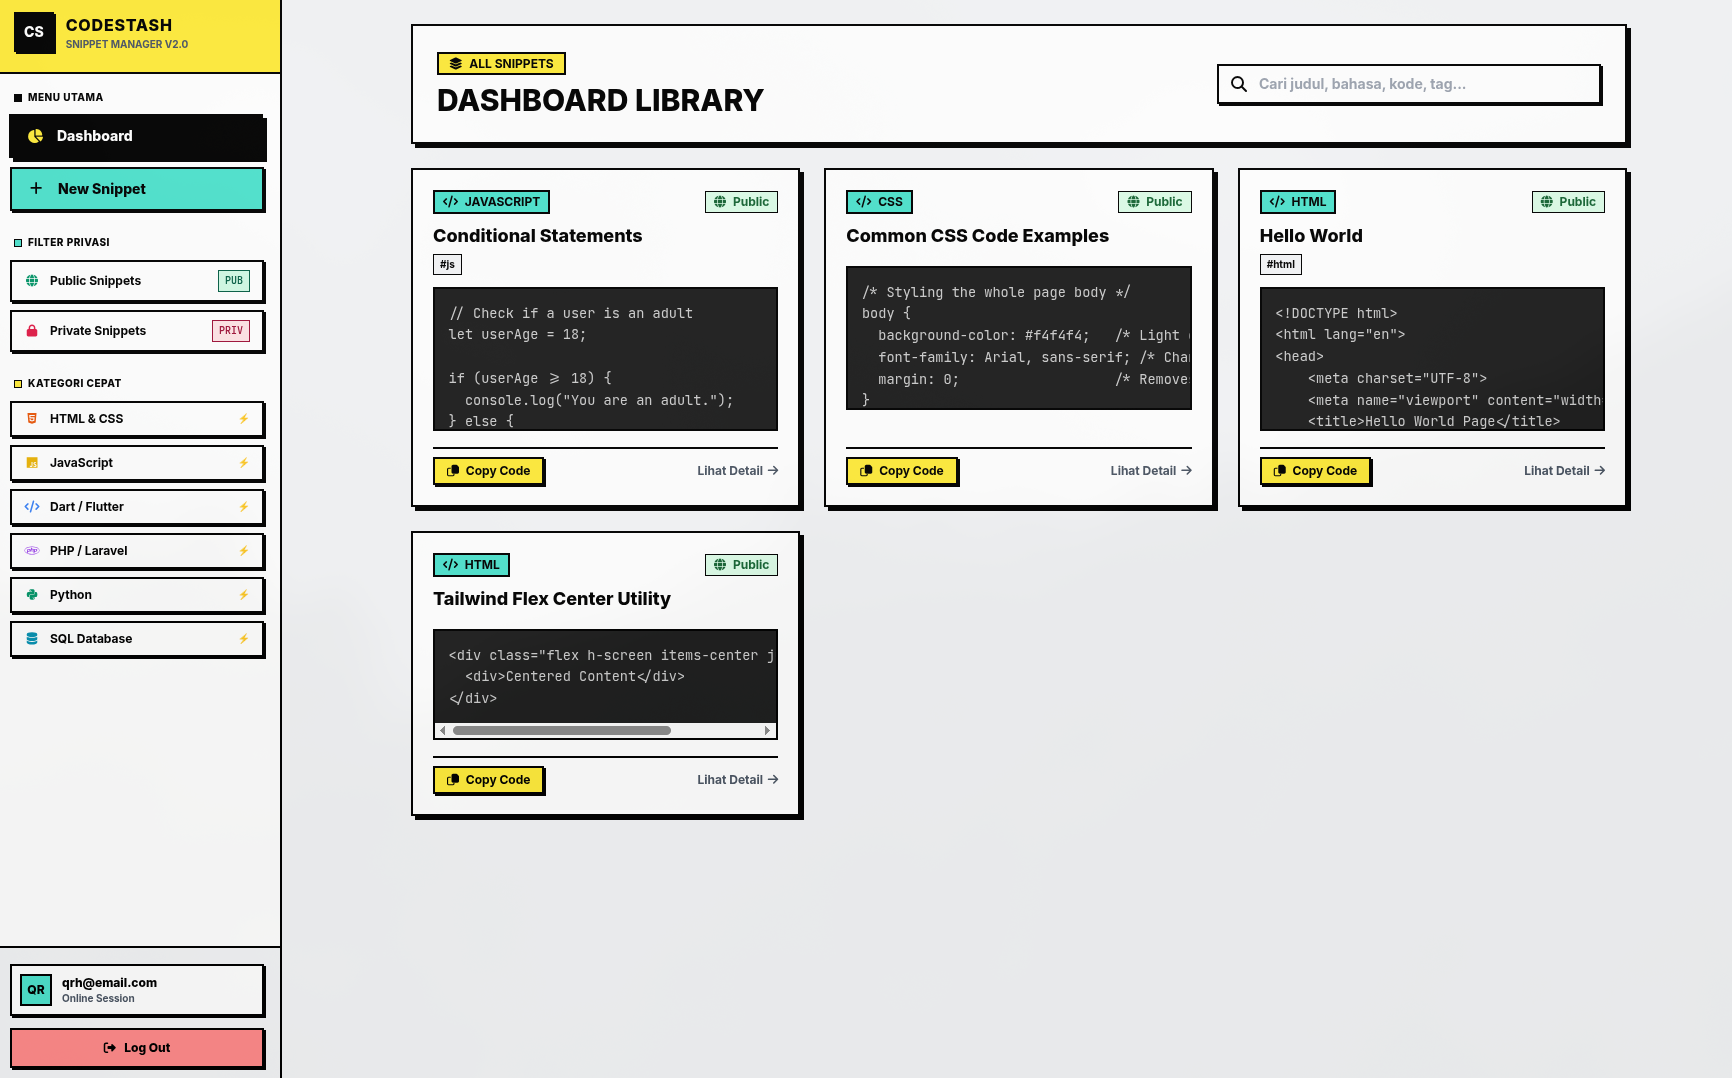
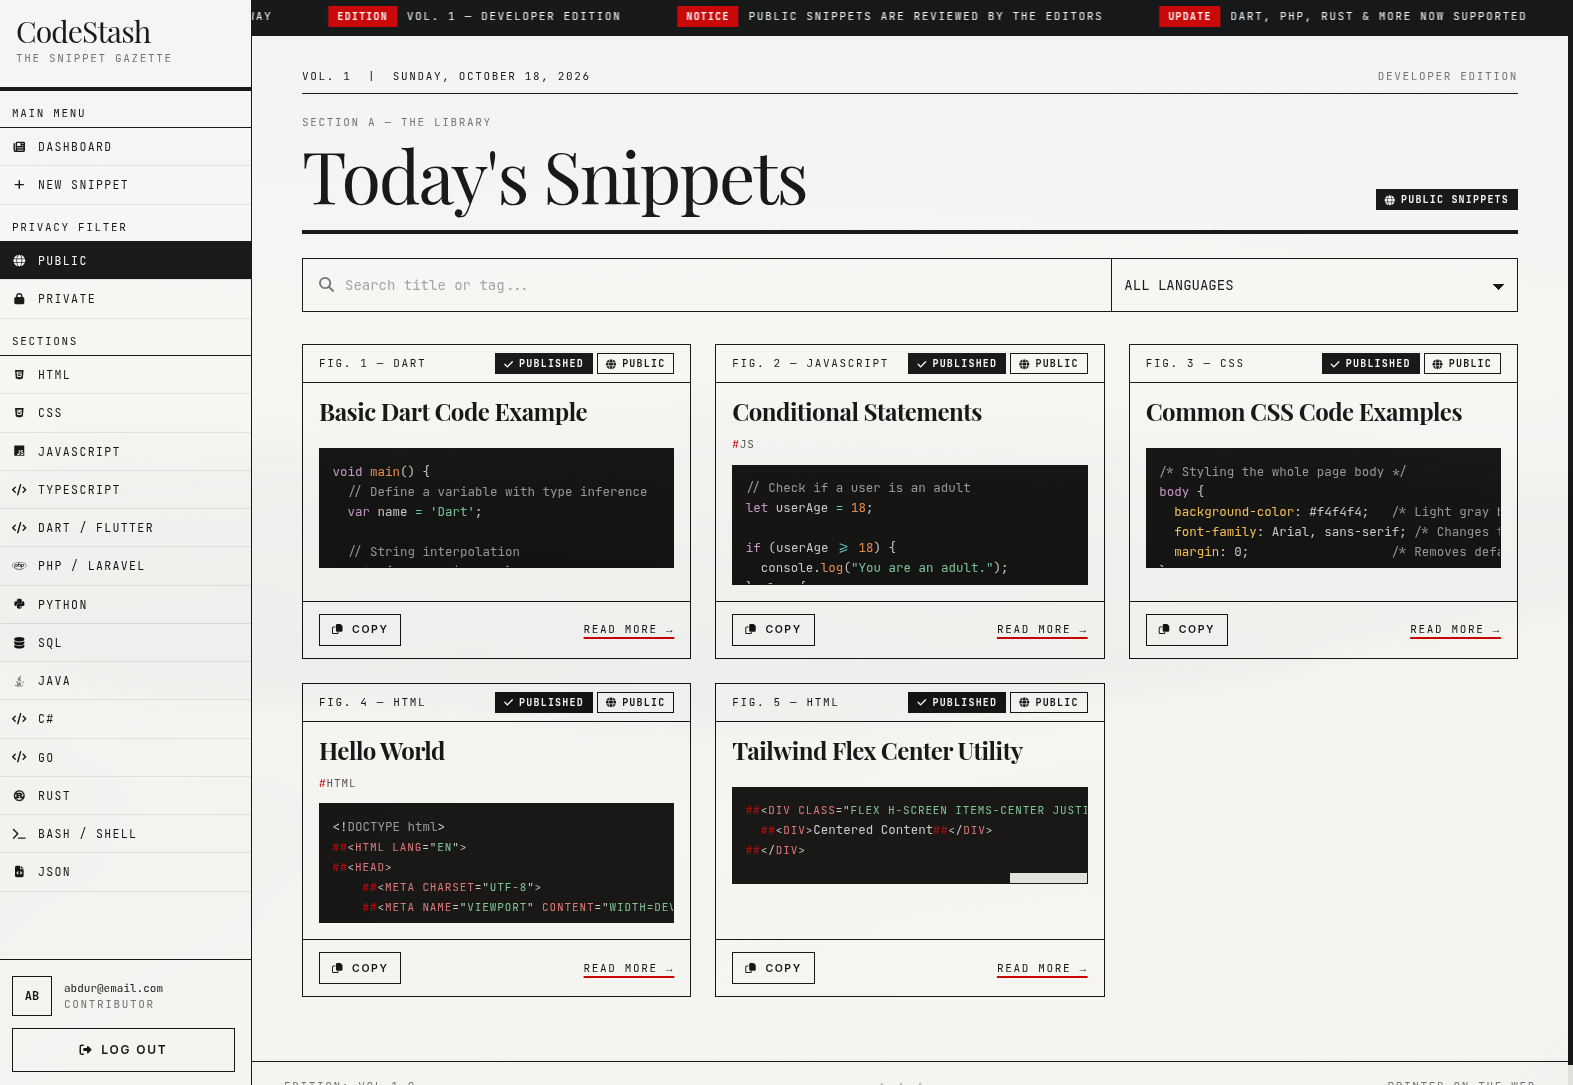
fix: update project image path for codestash in portfolio data

diff --git a/index.html b/index.html
@@ -1557,7 +1557,7 @@
                 seq: "PROJECT // 05",
                 tags: ["Developer Tool", "Snippet Engine", "JavaScript", "Supabase", ],
                 description: "Code Stash is a developer-focused snippet management tool designed to help programmers save, organize, and quickly retrieve reusable code snippets. Built for speed and clarity, it streamlines workflows for developers.",
-                image: "assets/stash.png",
+                image: "assets/codestash.png",
                 github: "https://github.com/Qaidy/codestash"
             }
         ];
